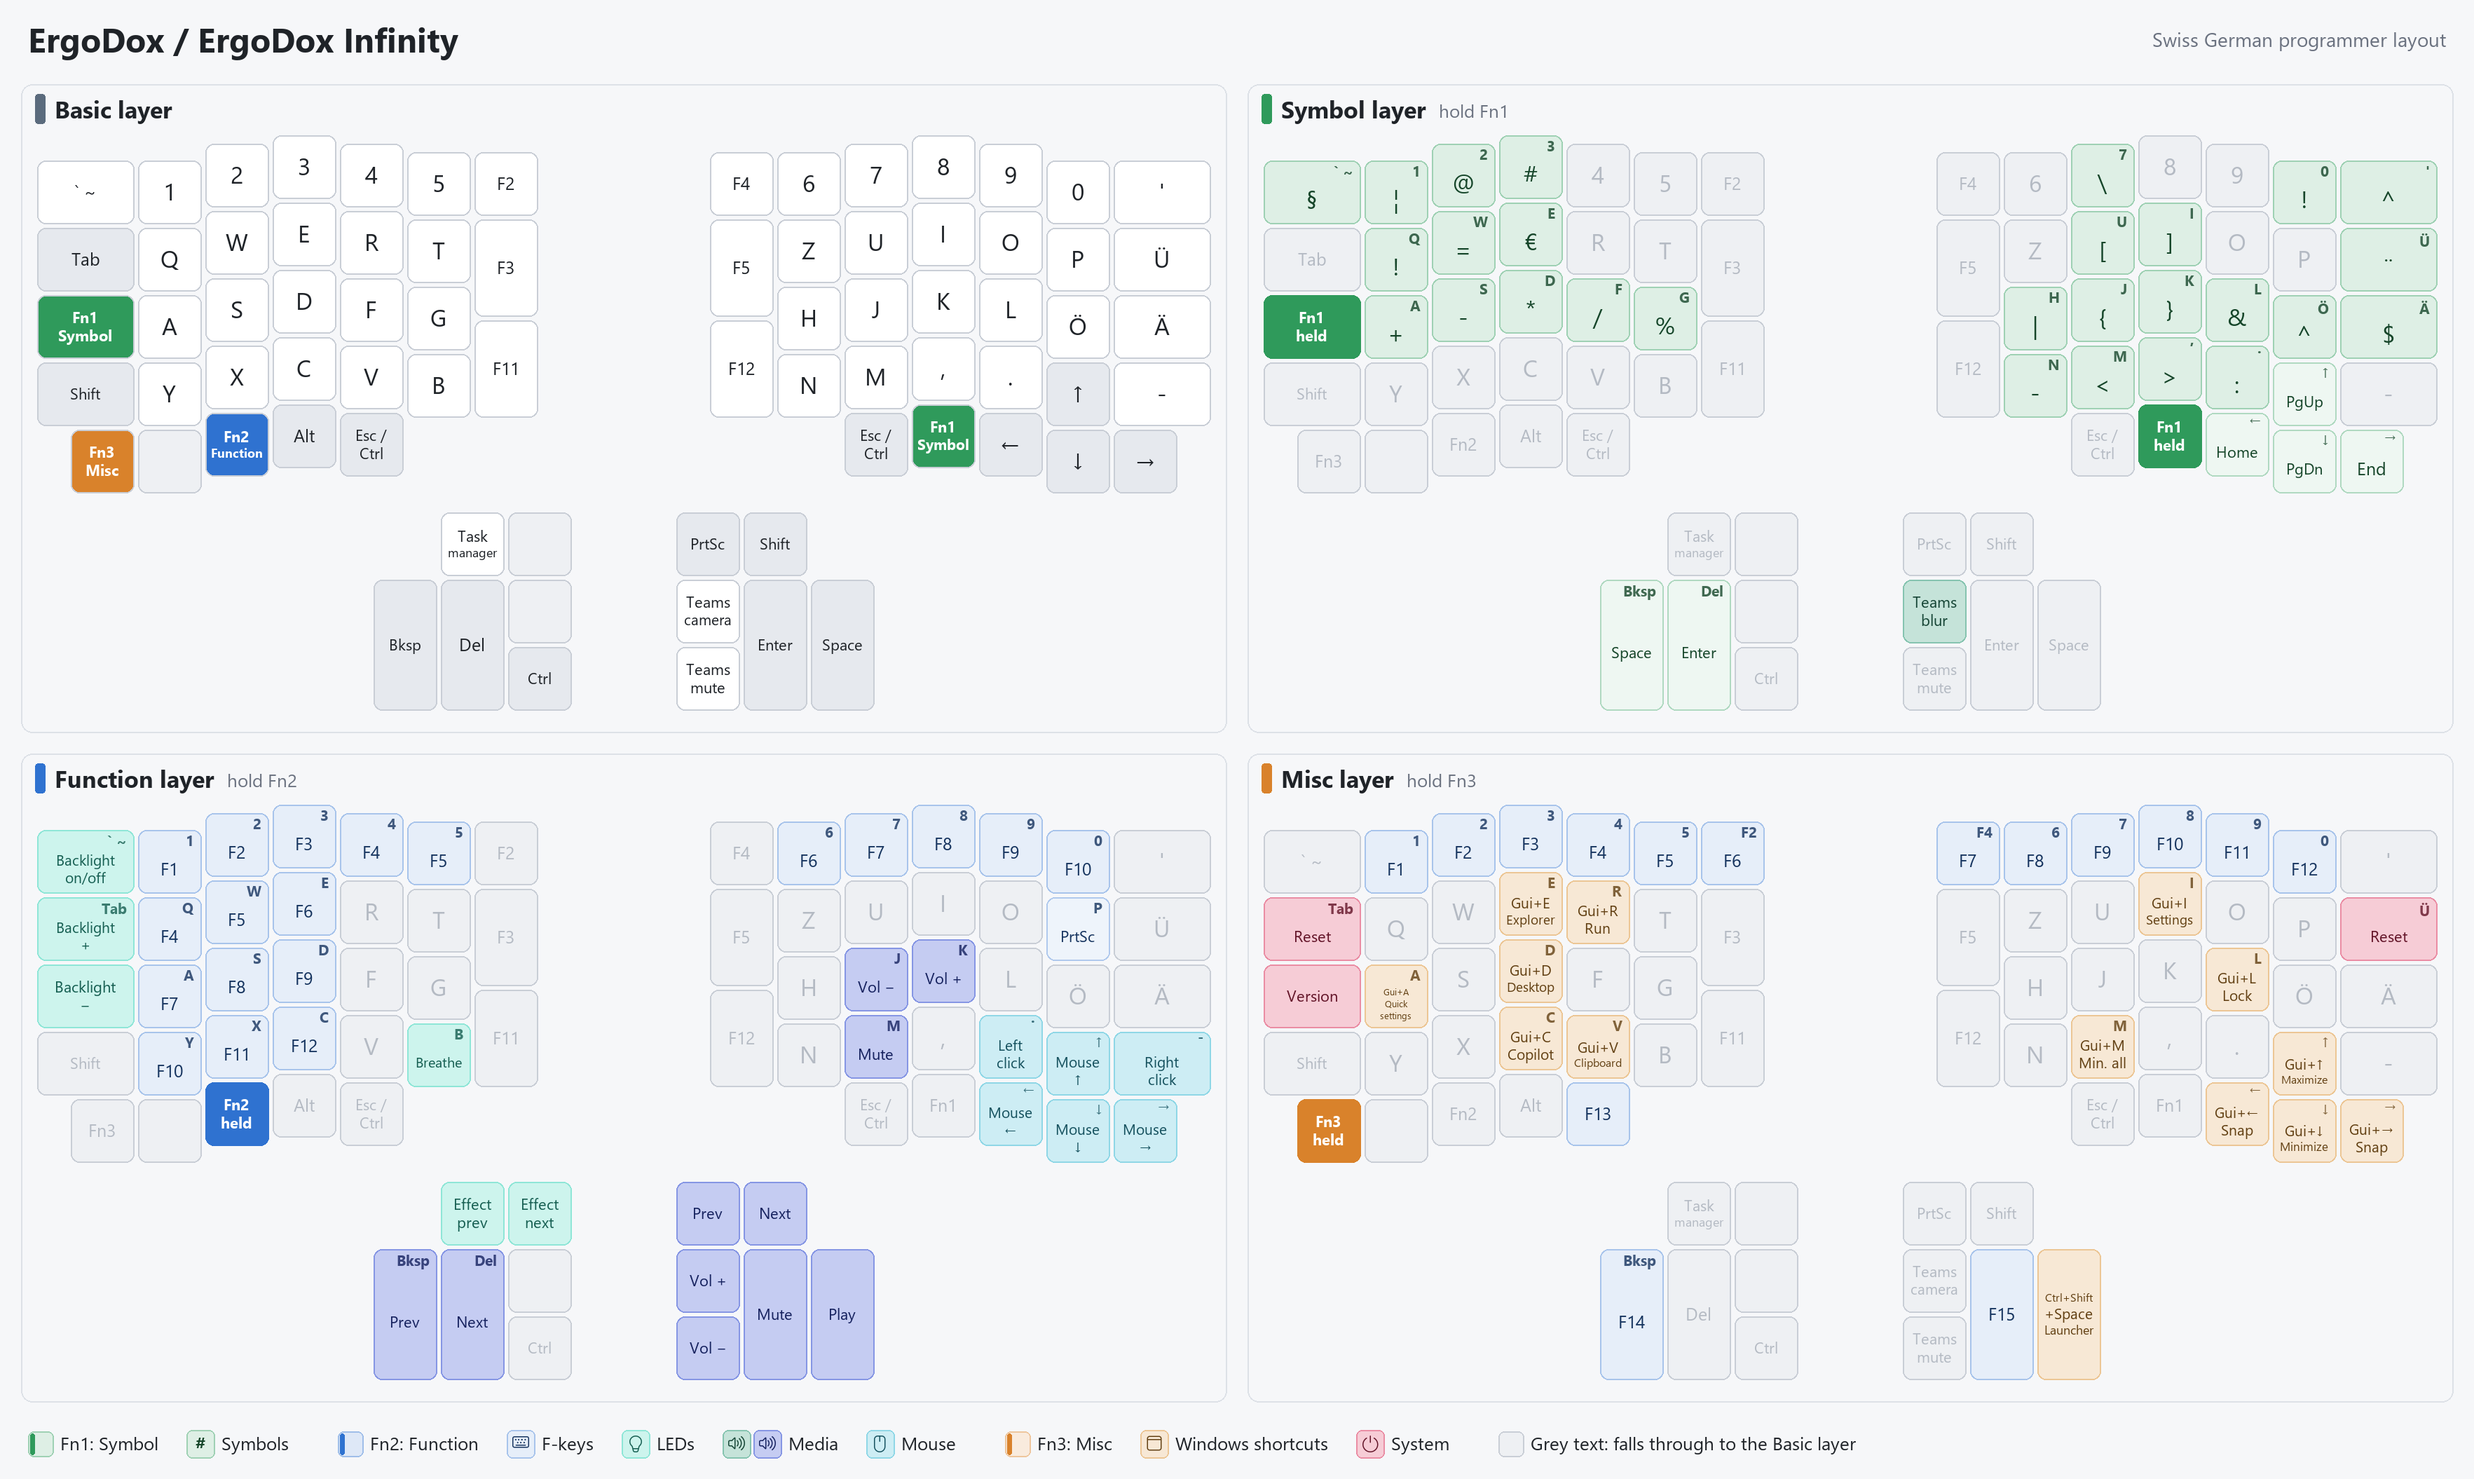
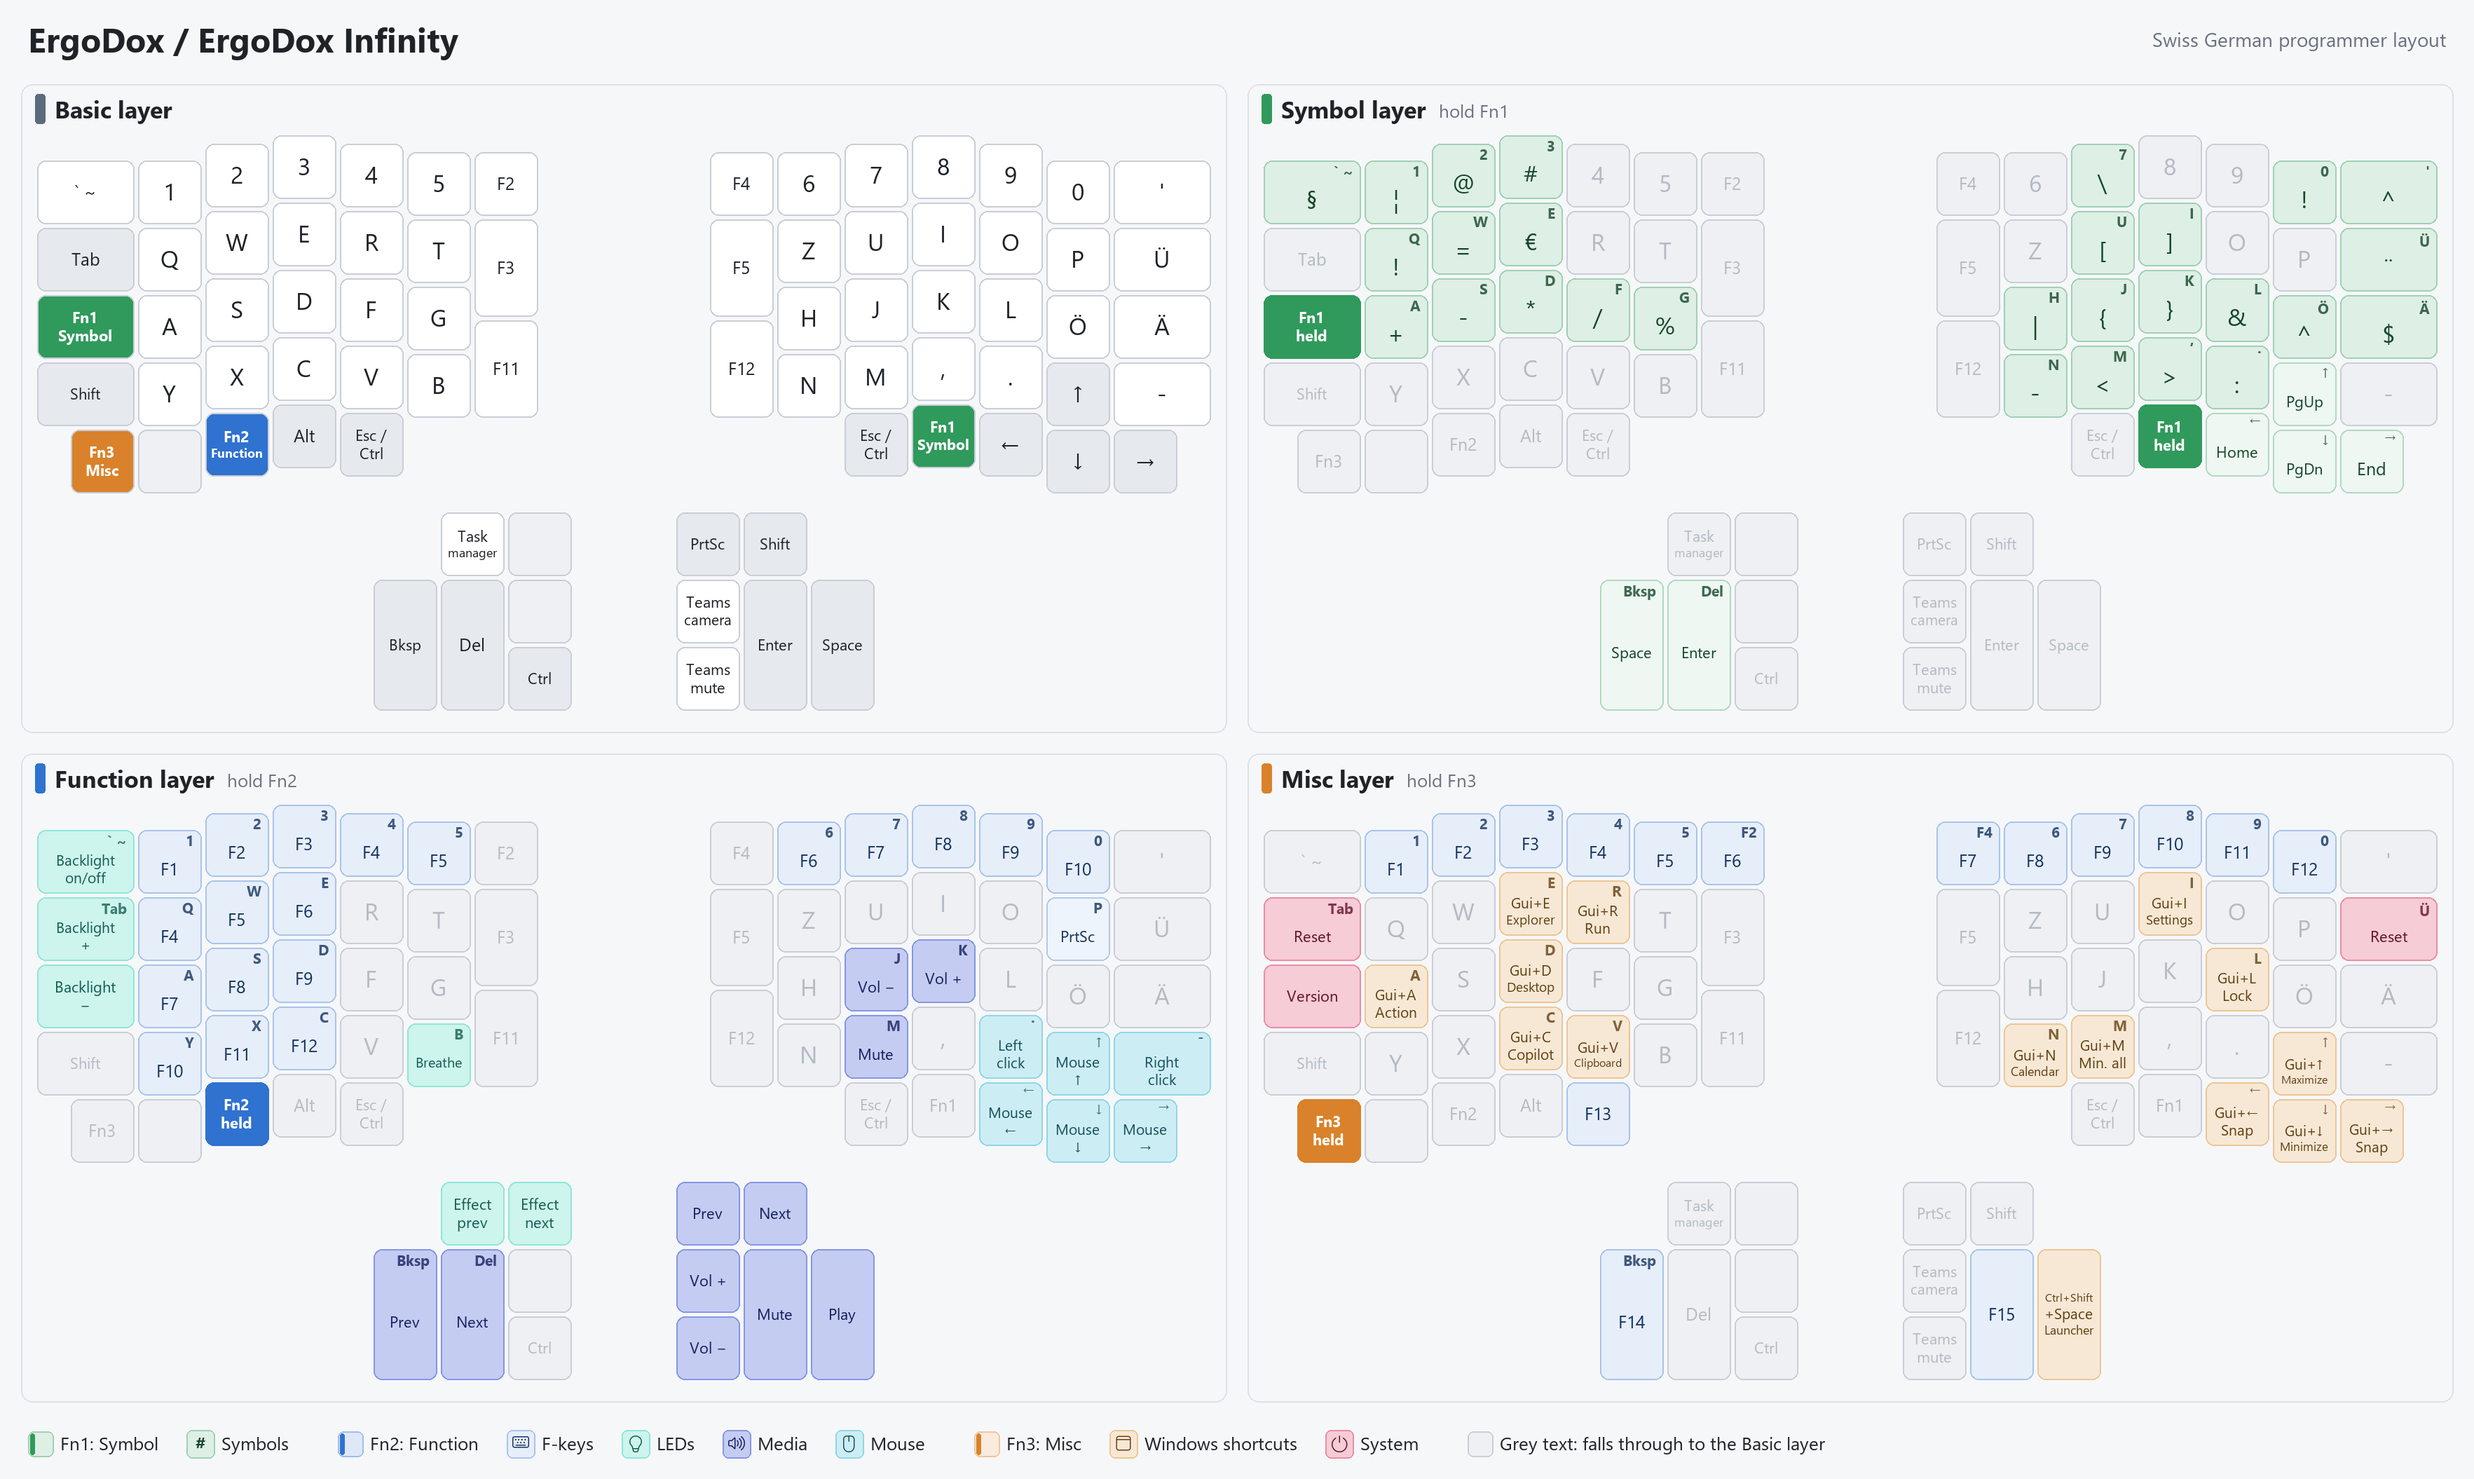
Move NKRO to the Misc layer, drop Teams blur, add Win+N
On the Drop ALT, NKRO moves from the Function layer to the Misc layer's
left Shift, under Reset and Version. The ErgoDox loses the unused Teams
blur key. All three layouts get Win+N (notifications and calendar) on
the Misc layer's N key. Cheat sheets now label Win+A "Action" and
Win+N "Calendar", short enough for the regular font size.

diff --git a/keyboards/massdrop/alt/keymaps/swissgerman_programmer/keymap.c b/keyboards/massdrop/alt/keymaps/swissgerman_programmer/keymap.c
@@ -60,7 +60,7 @@ const uint16_t PROGMEM keymaps[][MATRIX_ROWS][MATRIX_COLS] = {
  * |-----------------------------------------------------------------------------------------------|
  * | Val-     |  F7 |  F8 |  F9 |     |     |     | Vol-| Vol+|     |     |     |            |     |
  * |-----------------------------------------------------------------------------------------------|
- * | Area        | F10 | F11 | F12 |     | Brth| NKRO| Mute|     |     |     |   MB1   | MUp | MB2 |
+ * | Area        | F10 | F11 | F12 |     | Brth|     | Mute|     |     |     |   MB1   | MUp | MB2 |
  * |-----------------------------------------------------------------------------------------------|
  * |      |      |      |                Play                 |      | Fn3  |    |MLeft|MDown|MRght|
  * `-----------------------------------------------------------------------------------------------'
@@ -69,7 +69,7 @@ const uint16_t PROGMEM keymaps[][MATRIX_ROWS][MATRIX_COLS] = {
     RGB_TOG,  KC_F1,   KC_F2,   KC_F3,   KC_F4,   KC_F5,   KC_F6,   KC_F7,   KC_F8,   KC_F9,   KC_F10,  KC_F11,  KC_F12,  KC_MPRV,  KC_MNXT,
     RGB_VAI,  KC_F4,   KC_F5,   KC_F6,   _______, _______, _______, _______, _______, _______, KC_PSCR, KC_SCRL, KC_PAUS, RGB_RMOD, RGB_MOD,
     RGB_VAD,  KC_F7,   KC_F8,   KC_F9,   _______, _______, _______, KC_VOLD, KC_VOLU, _______, _______, _______,          _______,  _______,
-    LED_AREA, KC_F10,  KC_F11,  KC_F12,  _______, BREATHE, NK_TOGG, KC_MUTE, _______, _______, _______, MS_BTN1,          MS_UP,    MS_BTN2,
+    LED_AREA, KC_F10,  KC_F11,  KC_F12,  _______, BREATHE, _______, KC_MUTE, _______, _______, _______, MS_BTN1,          MS_UP,    MS_BTN2,
     _______,  _______, _______,                            KC_MPLY,                            _______, MO(3),   MS_LEFT,  MS_DOWN,  MS_RGHT
 ),
 
@@ -81,7 +81,7 @@ const uint16_t PROGMEM keymaps[][MATRIX_ROWS][MATRIX_COLS] = {
  * |-----------------------------------------------------------------------------------------------|
  * | Vrsn     |Gui+A|     |Gui+D|     |     |     |     |     |Gui+L|     |     |    F15     |     |
  * |-----------------------------------------------------------------------------------------------|
- * |             |     |     |Gui+C|Gui+V|     |     |Gui+M|     |     |     |         |Gui+↑|     |
+ * | NKRO        |     |     |Gui+C|Gui+V|     |Gui+N|Gui+M|     |     |     |         |Gui+↑|     |
  * |-----------------------------------------------------------------------------------------------|
  * |      | Fn2  | F13  |              Launcher               |      |      |    |Gui+←|Gui+↓|Gui+→|
  * `-----------------------------------------------------------------------------------------------'
@@ -90,7 +90,7 @@ const uint16_t PROGMEM keymaps[][MATRIX_ROWS][MATRIX_COLS] = {
     _______,    KC_F1,   KC_F2,   KC_F3,   KC_F4,   KC_F5,   KC_F6,   KC_F7,   KC_F8,   KC_F9,   KC_F10,  KC_F11,  KC_F12,  KC_F14,     _______,
     QK_BOOT,    _______, _______, G(CH_E), G(CH_R), _______, _______, _______, G(CH_I), _______, _______, _______, _______, _______,    _______,
     VRSN,       G(CH_A), _______, G(CH_D), _______, _______, _______, _______, _______, G(CH_L), _______, _______,          KC_F15,     _______,
-    _______,    _______, _______, G(CH_C), G(CH_V), _______, _______, G(CH_M), _______, _______, _______, _______,          G(KC_UP),   _______,
+    NK_TOGG,    _______, _______, G(CH_C), G(CH_V), _______, G(CH_N), G(CH_M), _______, _______, _______, _______,          G(KC_UP),   _______,
     _______,    MISC_FN2, KC_F13,                            LAUNCHER,                           _______, _______, G(KC_LEFT), G(KC_DOWN), G(KC_RIGHT)
 ),
 

diff --git a/layouts/ergodox/swissgerman_programmer/keymap.c b/layouts/ergodox/swissgerman_programmer/keymap.c
@@ -57,7 +57,7 @@ const uint16_t PROGMEM keymaps[][MATRIX_ROWS][MATRIX_COLS] = {
  *                                        ,-------------.       ,-------------.
  *                                        |      |      |       |      |      |
  *                                 ,------|------|------|       |------+------+------.
- *                                 |      |      |      |       | CS+P |      |      |
+ *                                 |      |      |      |       |      |      |      |
  *                                 |Space |Enter |------|       |------|      |      |
  *                                 |      |      |      |       |      |      |      |
  *                                 `--------------------'       `--------------------'
@@ -79,7 +79,7 @@ const uint16_t PROGMEM keymaps[][MATRIX_ROWS][MATRIX_COLS] = {
     _______ , CH_MINS , CH_LABK , CH_RABK , CH_COLN , KC_PGUP , _______ ,
                         _______ , _______ , KC_HOME , KC_PGDN , KC_END  ,
     _______ , _______ ,
-    C(S(CH_P)),
+    _______ ,
     _______ , _______ , _______
 ),
 /* Function layer
@@ -130,7 +130,7 @@ const uint16_t PROGMEM keymaps[][MATRIX_ROWS][MATRIX_COLS] = {
  * |--------+------+------+------+------+------|      |           |      |------+------+------+------+------+--------|
  * |  Vrsn  | Gui+A|      | Gui+D|      |      |------|           |------|      |      |      | Gui+L|      |        |
  * |--------+------+------+------+------+------|      |           |      |------+------+------+------+------+--------|
- * |        |      |      | Gui+C| Gui+V|      |      |           |      |      | Gui+M|      |      | Gui+↑|        |
+ * |        |      |      | Gui+C| Gui+V|      |      |           |      | Gui+N| Gui+M|      |      | Gui+↑|        |
  * `--------+------+------+------+------+-------------'           `-------------+------+------+------+------+--------'
  *   |      |      |      |      |  F13 |                                       |      |      | Gui+←| Gui+↓| Gui+→|
  *   `----------------------------------'                                       `----------------------------------'
@@ -156,7 +156,7 @@ const uint16_t PROGMEM keymaps[][MATRIX_ROWS][MATRIX_COLS] = {
         KC_F7   , KC_F8   , KC_F9   , KC_F10  , KC_F11     , KC_F12     , _______ ,
         _______ , _______ , _______ , G(CH_I) , _______    , _______    , QK_BOOT ,
                   _______ , _______ , _______ , G(CH_L)    , _______    , _______ ,
-        _______ , _______ , G(CH_M) , _______ , _______    , G(KC_UP)   , _______ ,
+        _______ , G(CH_N) , G(CH_M) , _______ , _______    , G(KC_UP)   , _______ ,
                             _______ , _______ , G(KC_LEFT) , G(KC_DOWN) , G(KC_RIGHT) ,
         _______ , _______ ,
         _______ ,

diff --git a/layouts/ortho_5x12/swissgerman_programmer/keymap.c b/layouts/ortho_5x12/swissgerman_programmer/keymap.c
@@ -73,7 +73,7 @@ const uint16_t PROGMEM keymaps[][MATRIX_ROWS][MATRIX_COLS] = {
  * |------+------+------+------+------+-------------+------+------+------+------+------|
  * | Vrsn | Gui+A|      | Gui+D|      |      |      |      |      | Gui+L|      |      |
  * |------+------+------+------+------+------|------+------+------+------+------+------|
- * |      |      |      | Gui+C| Gui+V|      |      | Gui+M|      |      | Gui+↑|      |
+ * |      |      |      | Gui+C| Gui+V|      | Gui+N| Gui+M|      |      | Gui+↑|      |
  * |------+------+------+------+------+------+------+------+------+------+------+------|
  * |      |      |      |      |  F13 |  F14 |  F15 |Launch|      | Gui+←| Gui+↓| Gui+→|
  * `-----------------------------------------------------------------------------------'
@@ -82,7 +82,7 @@ const uint16_t PROGMEM keymaps[][MATRIX_ROWS][MATRIX_COLS] = {
   KC_F12,  KC_F1,   KC_F2,   KC_F3,   KC_F4,      KC_F5,   KC_F6,   KC_F7,       KC_F8,   KC_F9,      KC_F10,     KC_F11,
   QK_BOOT, _______, _______, G(CH_E), G(CH_R),    _______, _______, _______,     G(CH_I), _______,    _______,    _______,
   VRSN,    G(CH_A), _______, G(CH_D), _______,    _______, _______, _______,     _______, G(CH_L),    _______,    _______,
-  _______, _______, _______, G(CH_C), G(CH_V),    _______, _______, G(CH_M),     _______, _______,    G(KC_UP),   _______,
+  _______, _______, _______, G(CH_C), G(CH_V),    _______, G(CH_N), G(CH_M),     _______, _______,    G(KC_UP),   _______,
   _______, _______, _______, _______, KC_F13,     KC_F14,  KC_F15,  LAUNCHER,    _______, G(KC_LEFT), G(KC_DOWN), G(KC_RIGHT)
 ),
 

diff --git a/tools/cheatsheets.py b/tools/cheatsheets.py
@@ -105,8 +105,9 @@ NAMED = {
 }
 ARROWS = {"KC_LEFT": "←", "KC_RIGHT": "→", "KC_RGHT": "→", "KC_UP": "↑", "KC_DOWN": "↓"}
 GUI_ACTIONS = {  # what Gui+key does in Windows 11
-    "CH_A": "Quick\nsettings", "CH_C": "Copilot", "CH_D": "Desktop", "CH_E": "Explorer",
-    "CH_I": "Settings", "CH_L": "Lock", "CH_M": "Min. all", "CH_R": "Run", "CH_V": "Clipboard",
+    "CH_A": "Action", "CH_C": "Copilot", "CH_D": "Desktop", "CH_E": "Explorer",
+    "CH_I": "Settings", "CH_L": "Lock", "CH_M": "Min. all", "CH_N": "Calendar",
+    "CH_R": "Run", "CH_V": "Clipboard",
     "KC_UP": "Maximize", "KC_DOWN": "Minimize", "KC_LEFT": "Snap", "KC_RIGHT": "Snap",
 }
 
